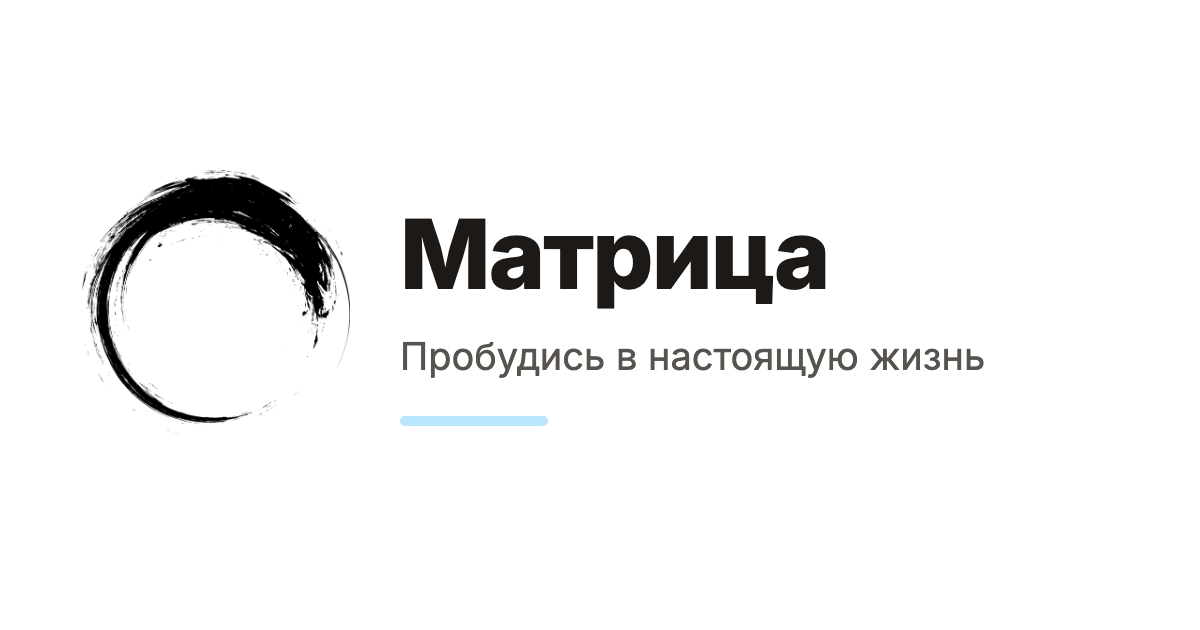
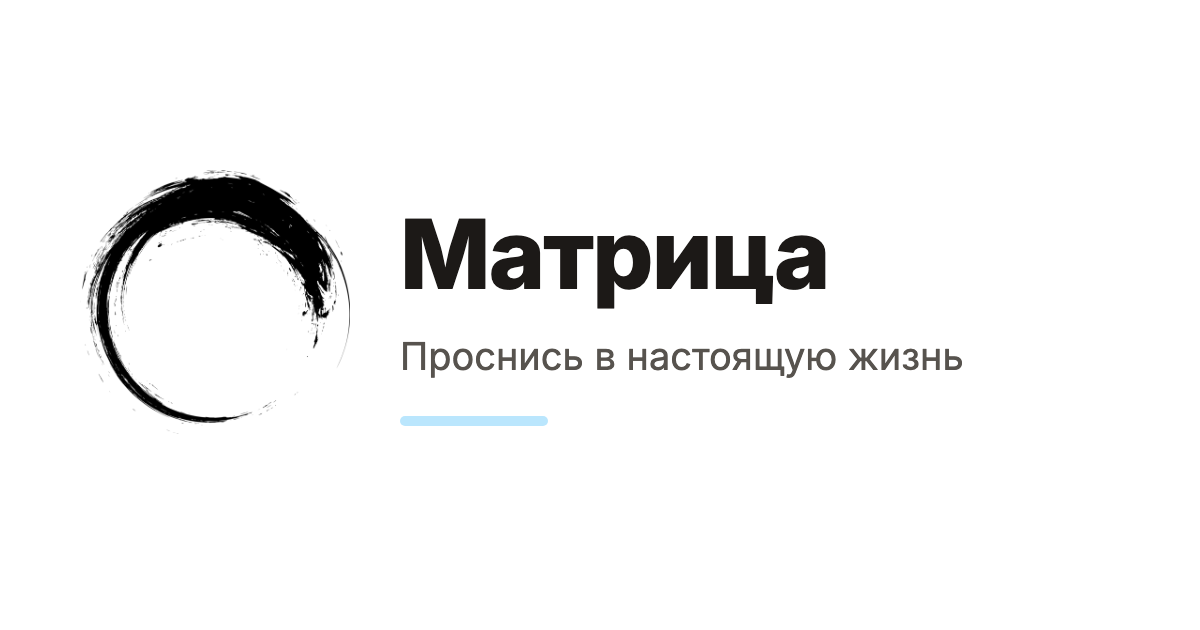
build

Changed region(s): [[0.4008, 0.5429, 0.8325, 0.6032]]

diff --git a/ru/the-matrix.html b/ru/the-matrix.html
@@ -18,8 +18,8 @@
 <title>Матрица | tellothers.com</title>
 <meta property="og:title" content="Матрица" />
 <meta property="og:locale" content="ru_RU" />
-<meta name="description" content="Пробудись в настоящую жизнь. В Матрице реальность — грустный мир, где воюют с роботами. И по сюжету мир революционеров — тоже матрица, выхода нет." />
-<meta property="og:description" content="Пробудись в настоящую жизнь. В Матрице реальность — грустный мир, где воюют с роботами. И по сюжету мир революционеров — тоже матрица, выхода нет." />
+<meta name="description" content="Проснись в настоящую жизнь. В Матрице реальность — грустный мир, где воюют с роботами. И по сюжету мир революционеров — тоже матрица, выхода нет." />
+<meta property="og:description" content="Проснись в настоящую жизнь. В Матрице реальность — грустный мир, где воюют с роботами. И по сюжету мир революционеров — тоже матрица, выхода нет." />
 <link rel="canonical" href="https://tellothers.com/ru/the-matrix" />
 <meta property="og:url" content="https://tellothers.com/ru/the-matrix" />
 <meta property="og:site_name" content="tellothers.com" />
@@ -103,7 +103,7 @@
     </h1>
 
       <p class="text-lg sm:text-xl text-stone-500 leading-snug">
-        Пробудись в настоящую жизнь
+        Проснись в настоящую жизнь
       </p>
   </header>
 
@@ -133,7 +133,7 @@
   "@type": "Article",
   "name": "Матрица",
   "headline": "Матрица",
-  "description": "Пробудись в настоящую жизнь",
+  "description": "Проснись в настоящую жизнь",
   "url": "https://tellothers.com/ru/the-matrix",
   "mainEntityOfPage": "https://tellothers.com/ru/the-matrix",
   "image": "https://tellothers.com/images/og/the-matrix.ru.png",

diff --git a/ru/index.html b/ru/index.html
@@ -25,7 +25,7 @@
 <meta property="og:site_name" content="tellothers.com" />
 <meta property="og:image" content="https://tellothers.com/images/og-ru.png" />
 <meta property="og:type" content="article" />
-<meta property="article:published_time" content="2026-10-28T06:12:03-07:00" />
+<meta property="article:published_time" content="2026-11-01T20:53:43-08:00" />
 <meta name="twitter:card" content="summary_large_image" />
 <meta property="twitter:image" content="https://tellothers.com/images/og-ru.png" />
 <meta property="twitter:title" content="Сработало? Скажи другим." />
@@ -661,7 +661,7 @@
 
     <a href="/ru/the-matrix" class="group block no-underline rounded-lg hover:bg-white p-4 transition-all duration-700 ease-out hover:shadow-lg hover:shadow-stone-900/5">
   <div class="font-sans font-bold text-stone-800 group-hover:text-stone-950 transition duration-700">Матрица</div>
-    <div class="mt-1 text-sm text-stone-600 leading-snug transition duration-700">Пробудись в настоящую жизнь</div>
+    <div class="mt-1 text-sm text-stone-600 leading-snug transition duration-700">Проснись в настоящую жизнь</div>
 </a>
 
 

diff --git a/ru/a-scanner-darkly.html b/ru/a-scanner-darkly.html
@@ -151,7 +151,7 @@
       <div class="grid sm:grid-cols-2 gap-3 -mx-4">
             <a href="/ru/the-matrix" class="group block no-underline rounded-lg hover:bg-white p-4 transition-all duration-700 ease-out hover:shadow-lg hover:shadow-stone-900/5">
   <div class="font-sans font-bold text-stone-800 group-hover:text-stone-950 transition duration-700">Матрица</div>
-    <div class="mt-1 text-sm text-stone-600 leading-snug transition duration-700">Пробудись в настоящую жизнь</div>
+    <div class="mt-1 text-sm text-stone-600 leading-snug transition duration-700">Проснись в настоящую жизнь</div>
 </a>
 
             <a href="/ru/generation-p" class="group block no-underline rounded-lg hover:bg-white p-4 transition-all duration-700 ease-out hover:shadow-lg hover:shadow-stone-900/5">

diff --git a/ru/watch.html b/ru/watch.html
@@ -153,7 +153,7 @@
 
             <a href="/ru/the-matrix" class="group block no-underline rounded-lg hover:bg-white p-4 transition-all duration-700 ease-out hover:shadow-lg hover:shadow-stone-900/5">
   <div class="font-sans font-bold text-stone-800 group-hover:text-stone-950 transition duration-700">Матрица</div>
-    <div class="mt-1 text-sm text-stone-600 leading-snug transition duration-700">Пробудись в настоящую жизнь</div>
+    <div class="mt-1 text-sm text-stone-600 leading-snug transition duration-700">Проснись в настоящую жизнь</div>
 </a>
 
             <a href="/ru/the-life-of-chuck" class="group block no-underline rounded-lg hover:bg-white p-4 transition-all duration-700 ease-out hover:shadow-lg hover:shadow-stone-900/5">

diff --git a/ru/cyberpunk-edgerunners.html b/ru/cyberpunk-edgerunners.html
@@ -156,7 +156,7 @@
 
             <a href="/ru/the-matrix" class="group block no-underline rounded-lg hover:bg-white p-4 transition-all duration-700 ease-out hover:shadow-lg hover:shadow-stone-900/5">
   <div class="font-sans font-bold text-stone-800 group-hover:text-stone-950 transition duration-700">Матрица</div>
-    <div class="mt-1 text-sm text-stone-600 leading-snug transition duration-700">Пробудись в настоящую жизнь</div>
+    <div class="mt-1 text-sm text-stone-600 leading-snug transition duration-700">Проснись в настоящую жизнь</div>
 </a>
 
             <a href="/ru/a-scanner-darkly" class="group block no-underline rounded-lg hover:bg-white p-4 transition-all duration-700 ease-out hover:shadow-lg hover:shadow-stone-900/5">

diff --git a/ru/question-reality.html b/ru/question-reality.html
@@ -181,7 +181,7 @@
 
             <a href="/ru/the-matrix" class="group block no-underline rounded-lg hover:bg-white p-4 transition-all duration-700 ease-out hover:shadow-lg hover:shadow-stone-900/5">
   <div class="font-sans font-bold text-stone-800 group-hover:text-stone-950 transition duration-700">Матрица</div>
-    <div class="mt-1 text-sm text-stone-600 leading-snug transition duration-700">Пробудись в настоящую жизнь</div>
+    <div class="mt-1 text-sm text-stone-600 leading-snug transition duration-700">Проснись в настоящую жизнь</div>
 </a>
 
             <a href="/ru/satori" class="group block no-underline rounded-lg hover:bg-white p-4 transition-all duration-700 ease-out hover:shadow-lg hover:shadow-stone-900/5">

diff --git a/ru/eightfold-path.html b/ru/eightfold-path.html
@@ -164,7 +164,7 @@
 
             <a href="/ru/the-matrix" class="group block no-underline rounded-lg hover:bg-white p-4 transition-all duration-700 ease-out hover:shadow-lg hover:shadow-stone-900/5">
   <div class="font-sans font-bold text-stone-800 group-hover:text-stone-950 transition duration-700">Матрица</div>
-    <div class="mt-1 text-sm text-stone-600 leading-snug transition duration-700">Пробудись в настоящую жизнь</div>
+    <div class="mt-1 text-sm text-stone-600 leading-snug transition duration-700">Проснись в настоящую жизнь</div>
 </a>
 
       </div>

diff --git a/ru/severance.html b/ru/severance.html
@@ -173,7 +173,7 @@
 
             <a href="/ru/the-matrix" class="group block no-underline rounded-lg hover:bg-white p-4 transition-all duration-700 ease-out hover:shadow-lg hover:shadow-stone-900/5">
   <div class="font-sans font-bold text-stone-800 group-hover:text-stone-950 transition duration-700">Матрица</div>
-    <div class="mt-1 text-sm text-stone-600 leading-snug transition duration-700">Пробудись в настоящую жизнь</div>
+    <div class="mt-1 text-sm text-stone-600 leading-snug transition duration-700">Проснись в настоящую жизнь</div>
 </a>
 
       </div>

diff --git a/index.html b/index.html
@@ -25,7 +25,7 @@
 <meta property="og:site_name" content="tellothers.com" />
 <meta property="og:image" content="https://tellothers.com/images/og-en.png" />
 <meta property="og:type" content="article" />
-<meta property="article:published_time" content="2026-10-28T06:12:03-07:00" />
+<meta property="article:published_time" content="2026-11-01T20:53:43-08:00" />
 <meta name="twitter:card" content="summary_large_image" />
 <meta property="twitter:image" content="https://tellothers.com/images/og-en.png" />
 <meta property="twitter:title" content="It worked? Tell others." />

diff --git a/404.html b/404.html
@@ -25,7 +25,7 @@
 <meta property="og:site_name" content="tellothers.com" />
 <meta property="og:image" content="https://tellothers.com/images/og-en.png" />
 <meta property="og:type" content="article" />
-<meta property="article:published_time" content="2026-10-28T06:12:03-07:00" />
+<meta property="article:published_time" content="2026-11-01T20:53:43-08:00" />
 <meta name="twitter:card" content="summary_large_image" />
 <meta property="twitter:image" content="https://tellothers.com/images/og-en.png" />
 <meta property="twitter:title" content="404" />

diff --git a/500.html b/500.html
@@ -25,7 +25,7 @@
 <meta property="og:site_name" content="tellothers.com" />
 <meta property="og:image" content="https://tellothers.com/images/og-en.png" />
 <meta property="og:type" content="article" />
-<meta property="article:published_time" content="2026-10-28T06:12:03-07:00" />
+<meta property="article:published_time" content="2026-11-01T20:53:43-08:00" />
 <meta name="twitter:card" content="summary_large_image" />
 <meta property="twitter:image" content="https://tellothers.com/images/og-en.png" />
 <meta property="twitter:title" content="500" />
